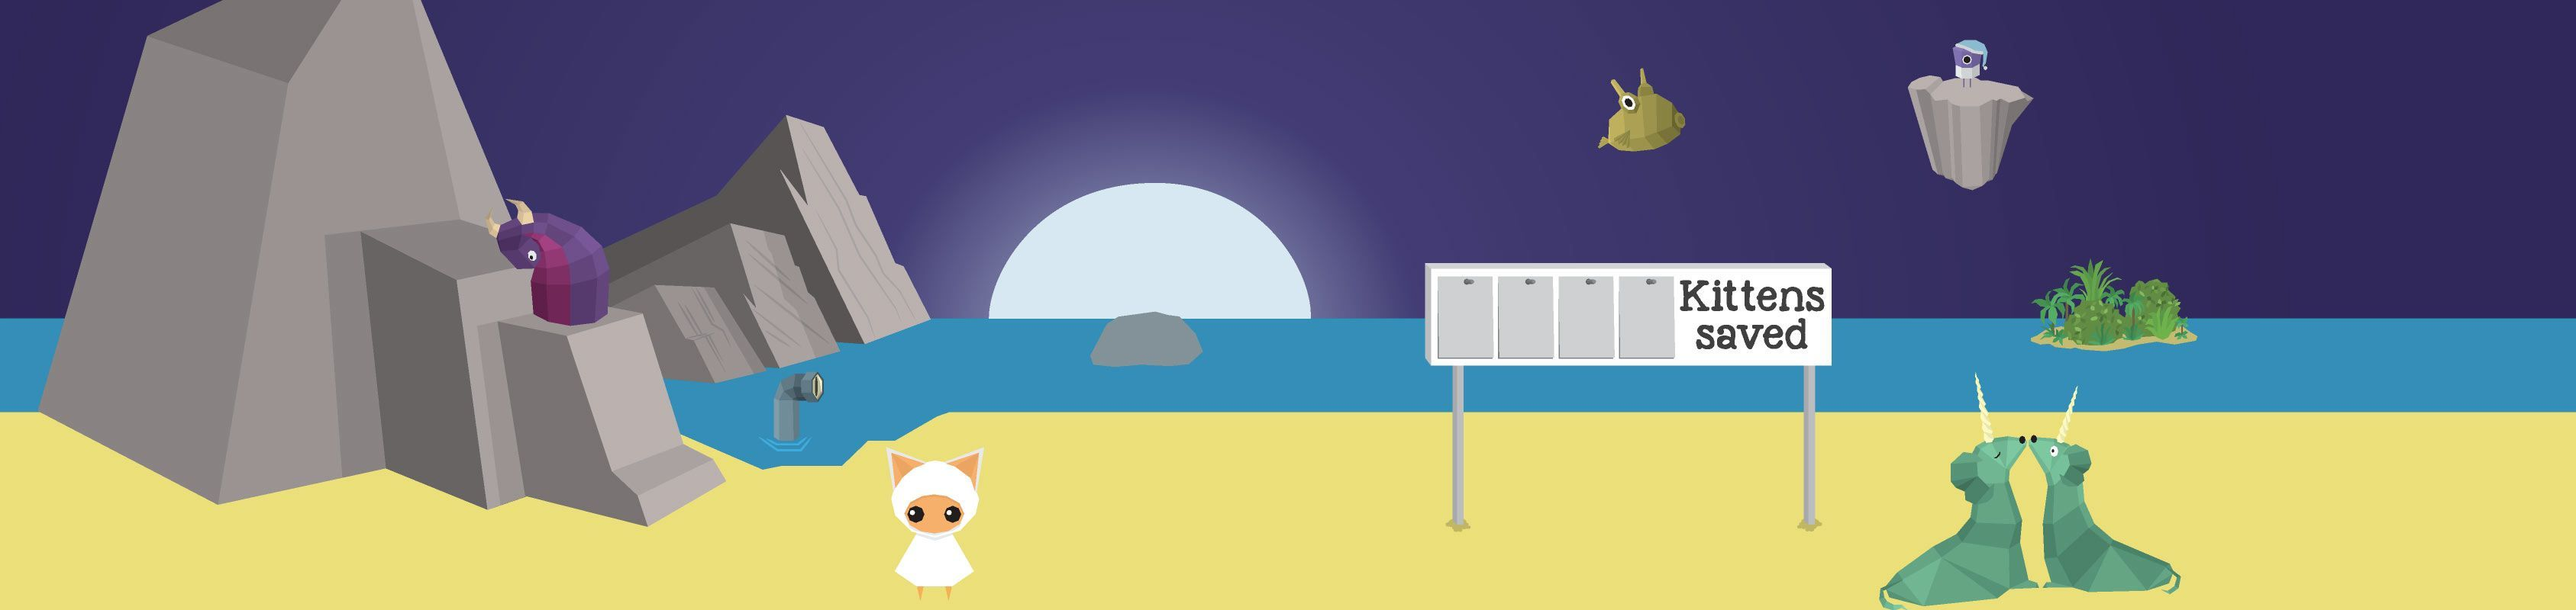
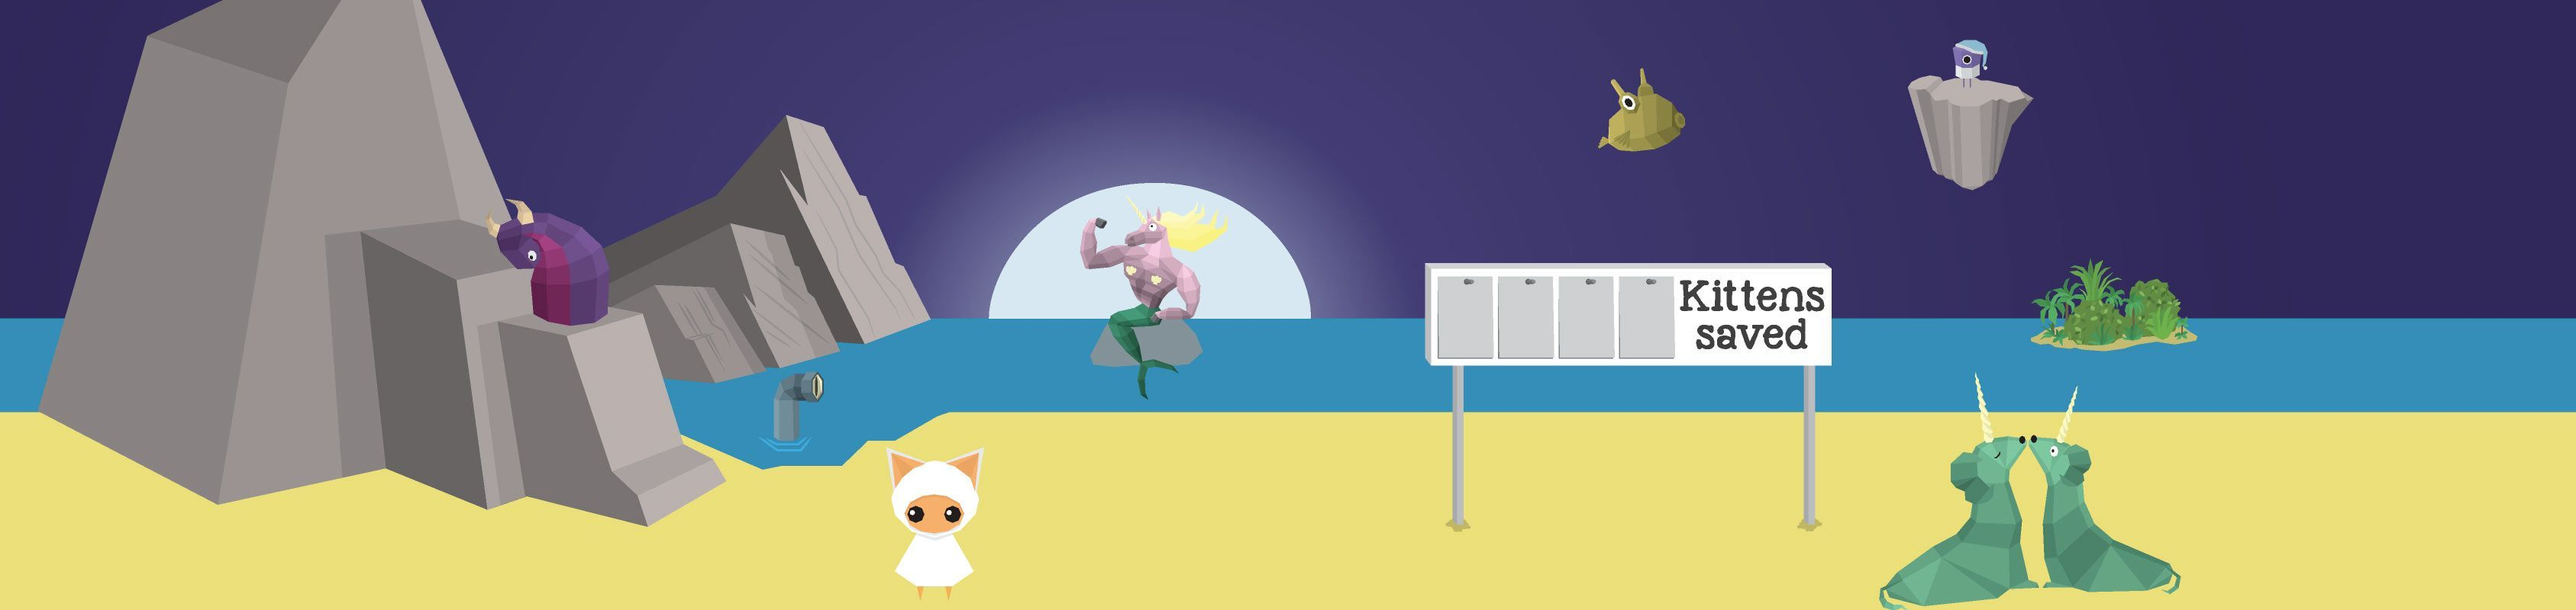
Remove animated TG

Changed region(s): [[0.4046, 0.3438, 0.4979, 0.625]]

diff --git a/app/assets/index-new.html b/app/assets/index-new.html
@@ -12,7 +12,6 @@
     <div class="head-inner">
       <h1>E.A.K.</h1>
       <span class="kitten-count"></span>
-      <div class="tg"></div>
     </div>
   </header>
 
